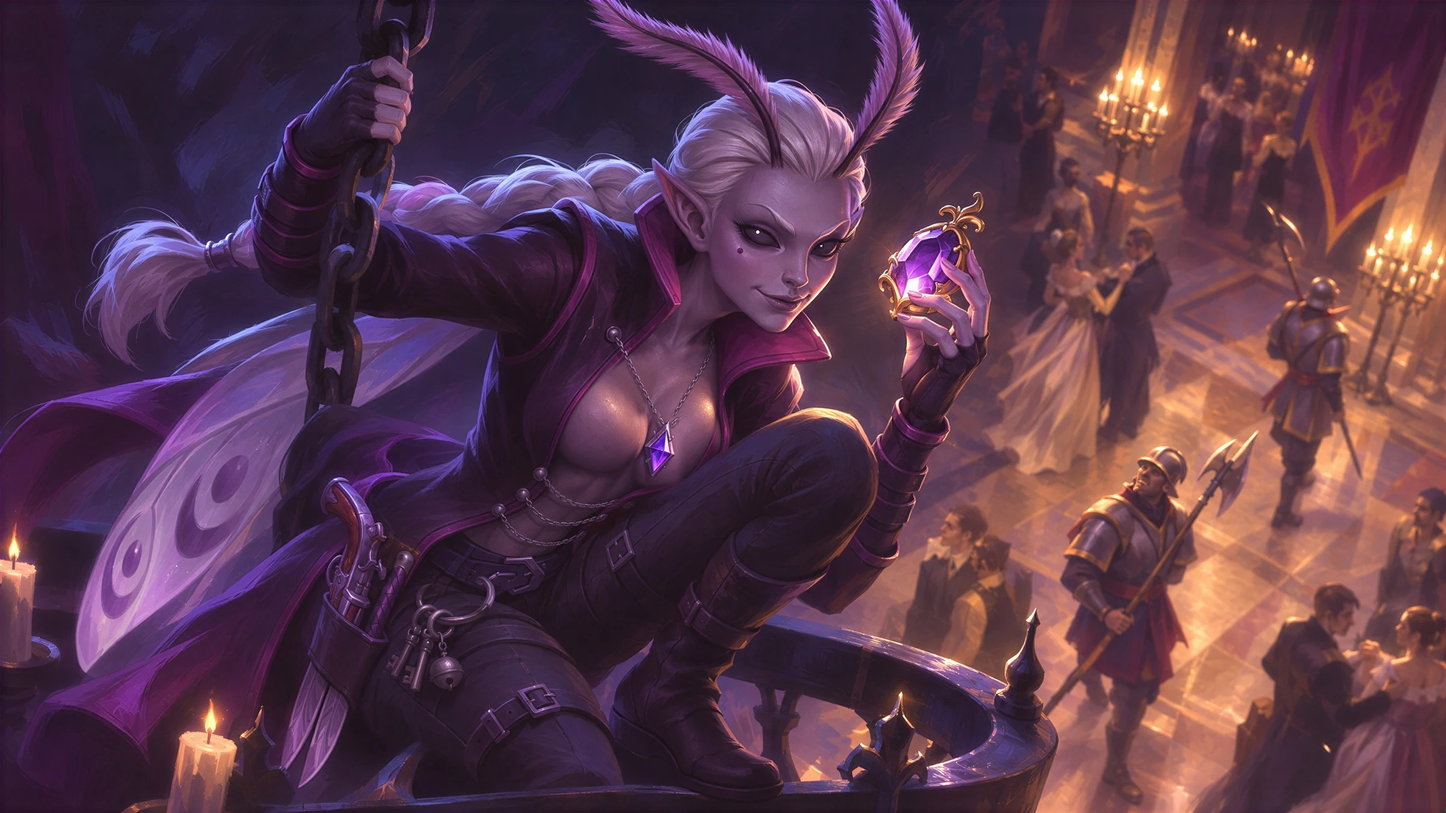
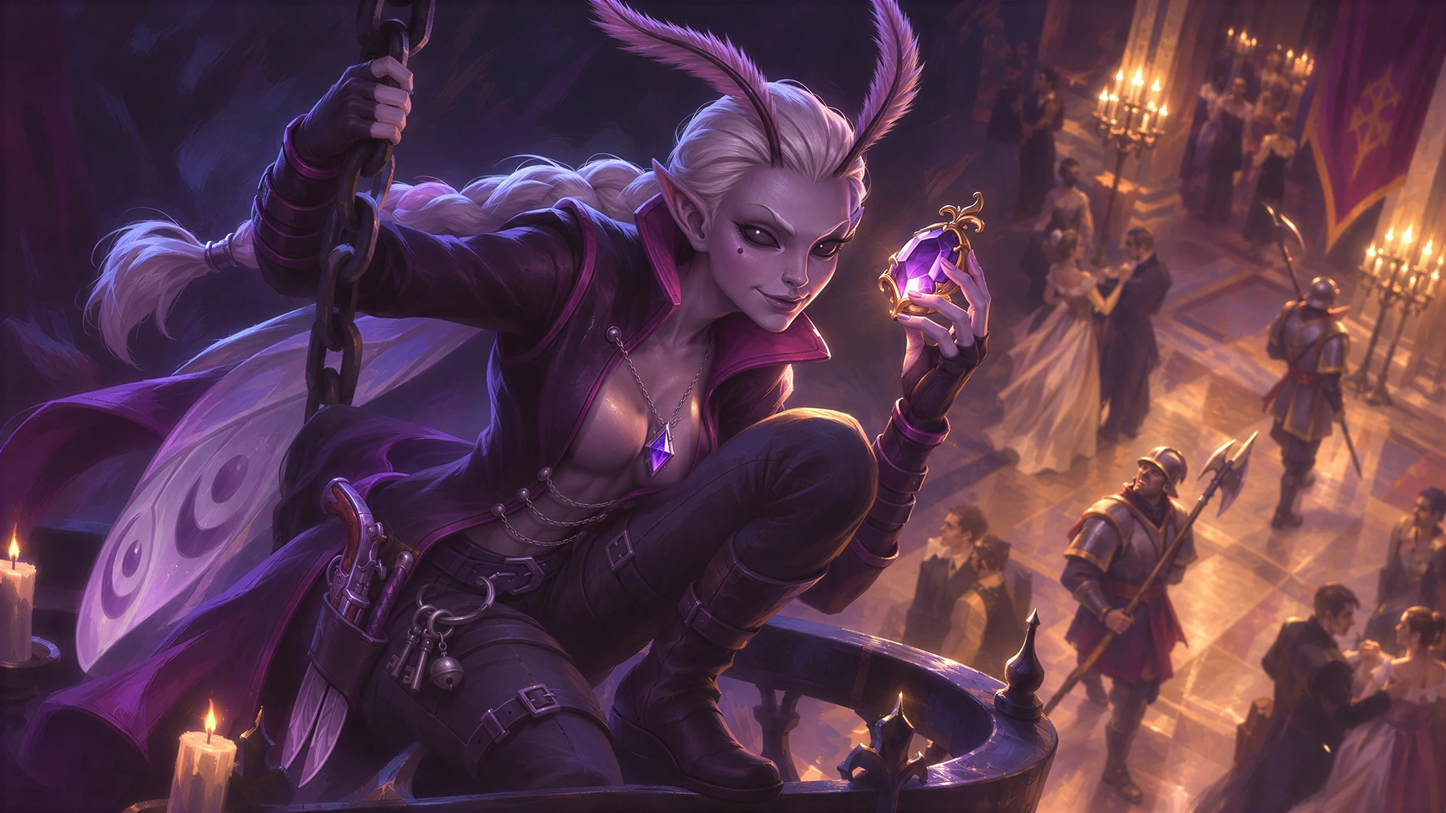
Hunter splash: Sable jacket in +10% (A, owner 11-14)
Claude-Session: https://claude.ai/code/session_01Fa986kEoxoUbsf7VZzVwQa

Changed region(s): [[0.4688, 0.4356, 0.5938, 0.56], [0.375, 0.4356, 0.4375, 0.56], [0.3125, 0.4356, 0.3438, 0.5911]]

diff --git a/presskit.html b/presskit.html
@@ -101,19 +101,19 @@
         </div>
         <h2>Hunter art</h2>
         <div class="pk-grid">
-          <a href="assets/img/hunters/lisette-2400.webp?v=2026-11-14x45" target="_blank"><img src="assets/img/hunters/lisette-960.webp?v=2026-11-14x45" alt="Lace splash art" loading="lazy"><span class="pk-cap">Lace</span></a>
-          <a href="assets/img/hunters/breaker-2400.webp?v=2026-11-14x45" target="_blank"><img src="assets/img/hunters/breaker-960.webp?v=2026-11-14x45" alt="Albert splash art" loading="lazy"><span class="pk-cap">Albert</span></a>
-          <a href="assets/img/hunters/vex-2400.webp?v=2026-11-14x45" target="_blank"><img src="assets/img/hunters/vex-960.webp?v=2026-11-14x45" alt="Vex splash art" loading="lazy"><span class="pk-cap">Vex</span></a>
-          <a href="assets/img/hunters/kael-2400.webp?v=2026-11-14x45" target="_blank"><img src="assets/img/hunters/kael-960.webp?v=2026-11-14x45" alt="Kael splash art" loading="lazy"><span class="pk-cap">Kael</span></a>
-          <a href="assets/img/hunters/claire-2400.webp?v=2026-11-14x45" target="_blank"><img src="assets/img/hunters/claire-960.webp?v=2026-11-14x45" alt="Neve splash art" loading="lazy"><span class="pk-cap">Neve</span></a>
-          <a href="assets/img/hunters/cinder-2400.webp?v=2026-11-14x45" target="_blank"><img src="assets/img/hunters/cinder-960.webp?v=2026-11-14x45" alt="Cinder splash art" loading="lazy"><span class="pk-cap">Cinder</span></a>
-          <a href="assets/img/hunters/tarek-2400.webp?v=2026-11-14x45" target="_blank"><img src="assets/img/hunters/tarek-960.webp?v=2026-11-14x45" alt="Tenzo splash art" loading="lazy"><span class="pk-cap">Tenzo</span></a>
-          <a href="assets/img/hunters/ryzz-2400.webp?v=2026-11-14x45" target="_blank"><img src="assets/img/hunters/ryzz-960.webp?v=2026-11-14x45" alt="Sparkle splash art" loading="lazy"><span class="pk-cap">Sparkle</span></a>
-          <a href="assets/img/hunters/grimble-2400.webp?v=2026-11-14x45" target="_blank"><img src="assets/img/hunters/grimble-960.webp?v=2026-11-14x45" alt="Grimble splash art" loading="lazy"><span class="pk-cap">Grimble</span></a>
-          <a href="assets/img/hunters/pip-2400.webp?v=2026-11-14x45" target="_blank"><img src="assets/img/hunters/pip-960.webp?v=2026-11-14x45" alt="Meeko splash art" loading="lazy"><span class="pk-cap">Meeko</span></a>
-          <a href="assets/img/hunters/sable-2400.webp?v=2026-11-14x45" target="_blank"><img src="assets/img/hunters/sable-960.webp?v=2026-11-14x45" alt="Sable splash art" loading="lazy"><span class="pk-cap">Sable</span></a>
-          <a href="assets/img/hunters/gill-2400.webp?v=2026-11-14x45" target="_blank"><img src="assets/img/hunters/gill-960.webp?v=2026-11-14x45" alt="Gill splash art" loading="lazy"><span class="pk-cap">Gill</span></a>
-          <a href="assets/img/hunters/motley-2400.webp?v=2026-11-14x45" target="_blank"><img src="assets/img/hunters/motley-960.webp?v=2026-11-14x45" alt="Motley splash art" loading="lazy"><span class="pk-cap">Motley</span></a>
+          <a href="assets/img/hunters/lisette-2400.webp?v=2026-11-14x47" target="_blank"><img src="assets/img/hunters/lisette-960.webp?v=2026-11-14x47" alt="Lace splash art" loading="lazy"><span class="pk-cap">Lace</span></a>
+          <a href="assets/img/hunters/breaker-2400.webp?v=2026-11-14x47" target="_blank"><img src="assets/img/hunters/breaker-960.webp?v=2026-11-14x47" alt="Albert splash art" loading="lazy"><span class="pk-cap">Albert</span></a>
+          <a href="assets/img/hunters/vex-2400.webp?v=2026-11-14x47" target="_blank"><img src="assets/img/hunters/vex-960.webp?v=2026-11-14x47" alt="Vex splash art" loading="lazy"><span class="pk-cap">Vex</span></a>
+          <a href="assets/img/hunters/kael-2400.webp?v=2026-11-14x47" target="_blank"><img src="assets/img/hunters/kael-960.webp?v=2026-11-14x47" alt="Kael splash art" loading="lazy"><span class="pk-cap">Kael</span></a>
+          <a href="assets/img/hunters/claire-2400.webp?v=2026-11-14x47" target="_blank"><img src="assets/img/hunters/claire-960.webp?v=2026-11-14x47" alt="Neve splash art" loading="lazy"><span class="pk-cap">Neve</span></a>
+          <a href="assets/img/hunters/cinder-2400.webp?v=2026-11-14x47" target="_blank"><img src="assets/img/hunters/cinder-960.webp?v=2026-11-14x47" alt="Cinder splash art" loading="lazy"><span class="pk-cap">Cinder</span></a>
+          <a href="assets/img/hunters/tarek-2400.webp?v=2026-11-14x47" target="_blank"><img src="assets/img/hunters/tarek-960.webp?v=2026-11-14x47" alt="Tenzo splash art" loading="lazy"><span class="pk-cap">Tenzo</span></a>
+          <a href="assets/img/hunters/ryzz-2400.webp?v=2026-11-14x47" target="_blank"><img src="assets/img/hunters/ryzz-960.webp?v=2026-11-14x47" alt="Sparkle splash art" loading="lazy"><span class="pk-cap">Sparkle</span></a>
+          <a href="assets/img/hunters/grimble-2400.webp?v=2026-11-14x47" target="_blank"><img src="assets/img/hunters/grimble-960.webp?v=2026-11-14x47" alt="Grimble splash art" loading="lazy"><span class="pk-cap">Grimble</span></a>
+          <a href="assets/img/hunters/pip-2400.webp?v=2026-11-14x47" target="_blank"><img src="assets/img/hunters/pip-960.webp?v=2026-11-14x47" alt="Meeko splash art" loading="lazy"><span class="pk-cap">Meeko</span></a>
+          <a href="assets/img/hunters/sable-2400.webp?v=2026-11-14x47" target="_blank"><img src="assets/img/hunters/sable-960.webp?v=2026-11-14x47" alt="Sable splash art" loading="lazy"><span class="pk-cap">Sable</span></a>
+          <a href="assets/img/hunters/gill-2400.webp?v=2026-11-14x47" target="_blank"><img src="assets/img/hunters/gill-960.webp?v=2026-11-14x47" alt="Gill splash art" loading="lazy"><span class="pk-cap">Gill</span></a>
+          <a href="assets/img/hunters/motley-2400.webp?v=2026-11-14x47" target="_blank"><img src="assets/img/hunters/motley-960.webp?v=2026-11-14x47" alt="Motley splash art" loading="lazy"><span class="pk-cap">Motley</span></a>
         </div>
         <h2>Boki art</h2>
         <div class="pk-grid pk-grid-boki" id="pk-boki" hidden></div>
@@ -151,7 +151,7 @@
   <div class="consent-b"><button class="btn btn-glass btn-sm" type="button" data-no>Decline</button><button class="btn btn-solid btn-sm" type="button" data-yes>Accept</button></div>
 </div>
 
-<script src="assets/site.js?v=279"></script>
+<script src="assets/site.js?v=280"></script>
 <script src="assets/signup.js?v=1"></script>
 <script src="/assets/topbar.js?v=6" defer></script>
 </body>

diff --git a/index.html b/index.html
@@ -170,7 +170,7 @@
       <button class="bk-arrow prev h-arrow" type="button" id="h-prev" aria-label="Previous Hunter"><svg viewBox="0 0 24 24" aria-hidden="true"><path d="M15 5l-7 7 7 7" fill="none" stroke="currentColor" stroke-width="2.6" stroke-linecap="round" stroke-linejoin="round"/></svg></button>
       <button class="bk-arrow next h-arrow" type="button" id="h-next" aria-label="Next Hunter"><svg viewBox="0 0 24 24" aria-hidden="true"><path d="M9 5l7 7-7 7" fill="none" stroke="currentColor" stroke-width="2.6" stroke-linecap="round" stroke-linejoin="round"/></svg></button>
       <div class="bk-count h-count"><b id="h-n">01</b> / <span>13</span></div>
-      <div class="shot"><img data-zoom id="h-art" src="assets/img/hunters/ryzz-1600.webp?v=2026-11-14x45" srcset="assets/img/hunters/ryzz-960.webp?v=2026-11-14x45 960w, assets/img/hunters/ryzz-1600.webp?v=2026-11-14x45 1600w, assets/img/hunters/ryzz-2400.webp?v=2026-11-14x45 2400w" sizes="(max-width: 720px) 260vw, (max-width: 1000px) and (orientation: portrait) 150vw, (max-width: 1280px) 100vw, 1240px" alt="Sparkle, the Storm Chaser" loading="lazy"><button class="h-expand" type="button" id="h-expand" aria-label="View full art"><svg viewBox="0 0 24 24" fill="none" stroke="currentColor" stroke-width="2.2" stroke-linecap="round" stroke-linejoin="round" aria-hidden="true"><path d="M14 4h6v6M10 20H4v-6M20 4l-6.5 6.5M4 20l6.5-6.5"/></svg></button></div>
+      <div class="shot"><img data-zoom id="h-art" src="assets/img/hunters/ryzz-1600.webp?v=2026-11-14x47" srcset="assets/img/hunters/ryzz-960.webp?v=2026-11-14x47 960w, assets/img/hunters/ryzz-1600.webp?v=2026-11-14x47 1600w, assets/img/hunters/ryzz-2400.webp?v=2026-11-14x47 2400w" sizes="(max-width: 720px) 260vw, (max-width: 1000px) and (orientation: portrait) 150vw, (max-width: 1280px) 100vw, 1240px" alt="Sparkle, the Storm Chaser" loading="lazy"><button class="h-expand" type="button" id="h-expand" aria-label="View full art"><svg viewBox="0 0 24 24" fill="none" stroke="currentColor" stroke-width="2.2" stroke-linecap="round" stroke-linejoin="round" aria-hidden="true"><path d="M14 4h6v6M10 20H4v-6M20 4l-6.5 6.5M4 20l6.5-6.5"/></svg></button></div>
       <div class="info" aria-live="polite">
         <div class="role" id="h-role" data-role="Skirmisher">Skirmisher</div>
         <h3 id="h-name">Sparkle</h3>
@@ -289,7 +289,7 @@
   <symbol id="i-play" viewBox="0 0 24 24"><path d="M7 4.5v15a1 1 0 0 0 1.5.86l12.4-7.5a1 1 0 0 0 0-1.72L8.5 3.64A1 1 0 0 0 7 4.5Z"/></symbol>
 </svg>
 
-<script src="assets/site.js?v=279"></script>
+<script src="assets/site.js?v=280"></script>
 <script src="assets/signup.js?v=1"></script>
 <script src="/assets/topbar.js?v=6" defer></script>
 </body>

diff --git a/devlog.html b/devlog.html
@@ -62,7 +62,7 @@
       <article class="dl-post" id="hunter-kits">
         <time datetime="2026-11-09">November 9, 2026</time>
         <h2>Hunter kits are on the site</h2>
-        <a class="dl-img" href="index.html#hunters"><img src="assets/img/hunters/breaker-1600.webp?v=2026-11-14x45" width="1600" height="893" alt="Albert, the Barnacle Knight" loading="lazy"></a>
+        <a class="dl-img" href="index.html#hunters"><img src="assets/img/hunters/breaker-1600.webp?v=2026-11-14x47" width="1600" height="893" alt="Albert, the Barnacle Knight" loading="lazy"></a>
         <p>Tap Abilities on any Hunter to see their full kit: weapon, passive, dash, both abilities and their ultimate.</p>
         <p>The kits come straight from the game files, so they stay current as we tune each Hunter.</p>
       </article>
@@ -90,7 +90,7 @@
   <div class="consent-b"><button class="btn btn-glass btn-sm" type="button" data-no>Decline</button><button class="btn btn-solid btn-sm" type="button" data-yes>Accept</button></div>
 </div>
 
-<script src="assets/site.js?v=279"></script>
+<script src="assets/site.js?v=280"></script>
 <script src="assets/signup.js?v=1"></script>
 <script src="/assets/topbar.js?v=6" defer></script>
 </body>

diff --git a/assets/site.js b/assets/site.js
@@ -192,7 +192,7 @@ if (heroIn && !calm) {
 
 /* ---------- Hunters: pick a Mask ---------- */
 // [id, name, title, has an up-to-date in-game model, role (from the kit's role line in the game)]
-const ART_V = "2026-11-14x45"; // bump when a Hunter splash changes
+const ART_V = "2026-11-14x47"; // bump when a Hunter splash changes
 const HUNTERS = [
   ["ryzz", "Sparkle", "The Storm Chaser", true, "Skirmisher"],
   ["tarek", "Tenzo", "The Stone Seer", true, "Brawler"],

diff --git a/privacy.html b/privacy.html
@@ -99,7 +99,7 @@
   <div class="consent-b"><button class="btn btn-glass btn-sm" type="button" data-no>Decline</button><button class="btn btn-solid btn-sm" type="button" data-yes>Accept</button></div>
 </div>
 
-<script src="assets/site.js?v=279"></script>
+<script src="assets/site.js?v=280"></script>
 <script src="assets/signup.js?v=1"></script>
 <script src="/assets/topbar.js?v=6" defer></script>
 </body>
